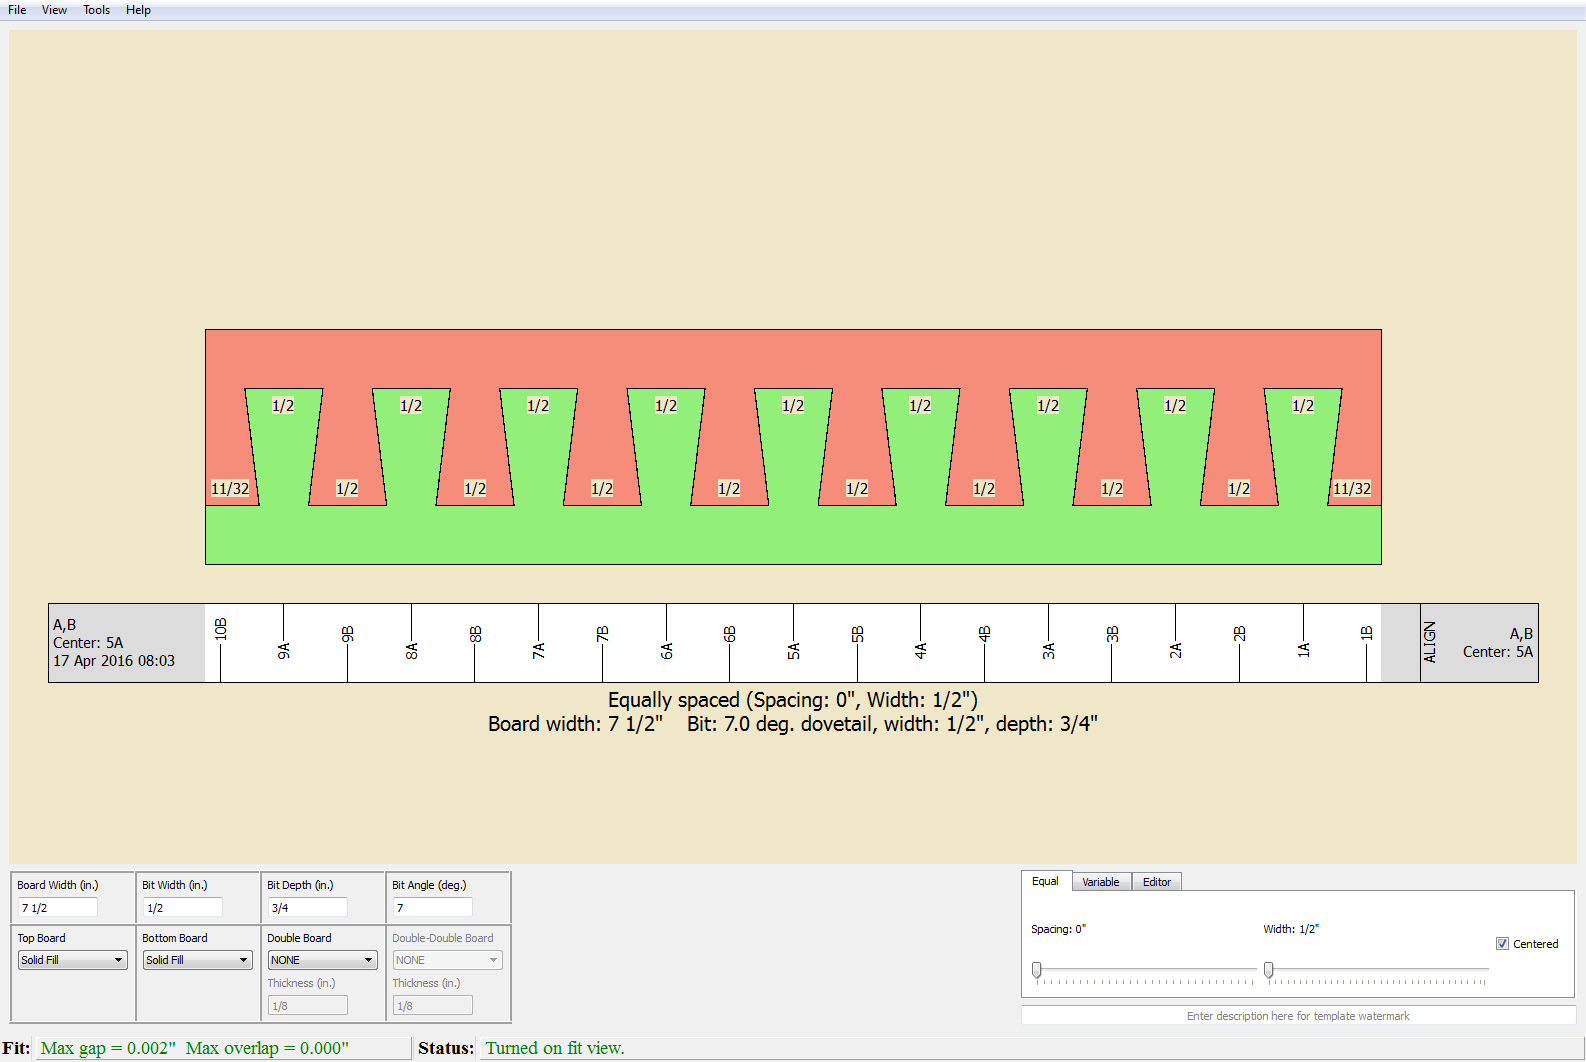
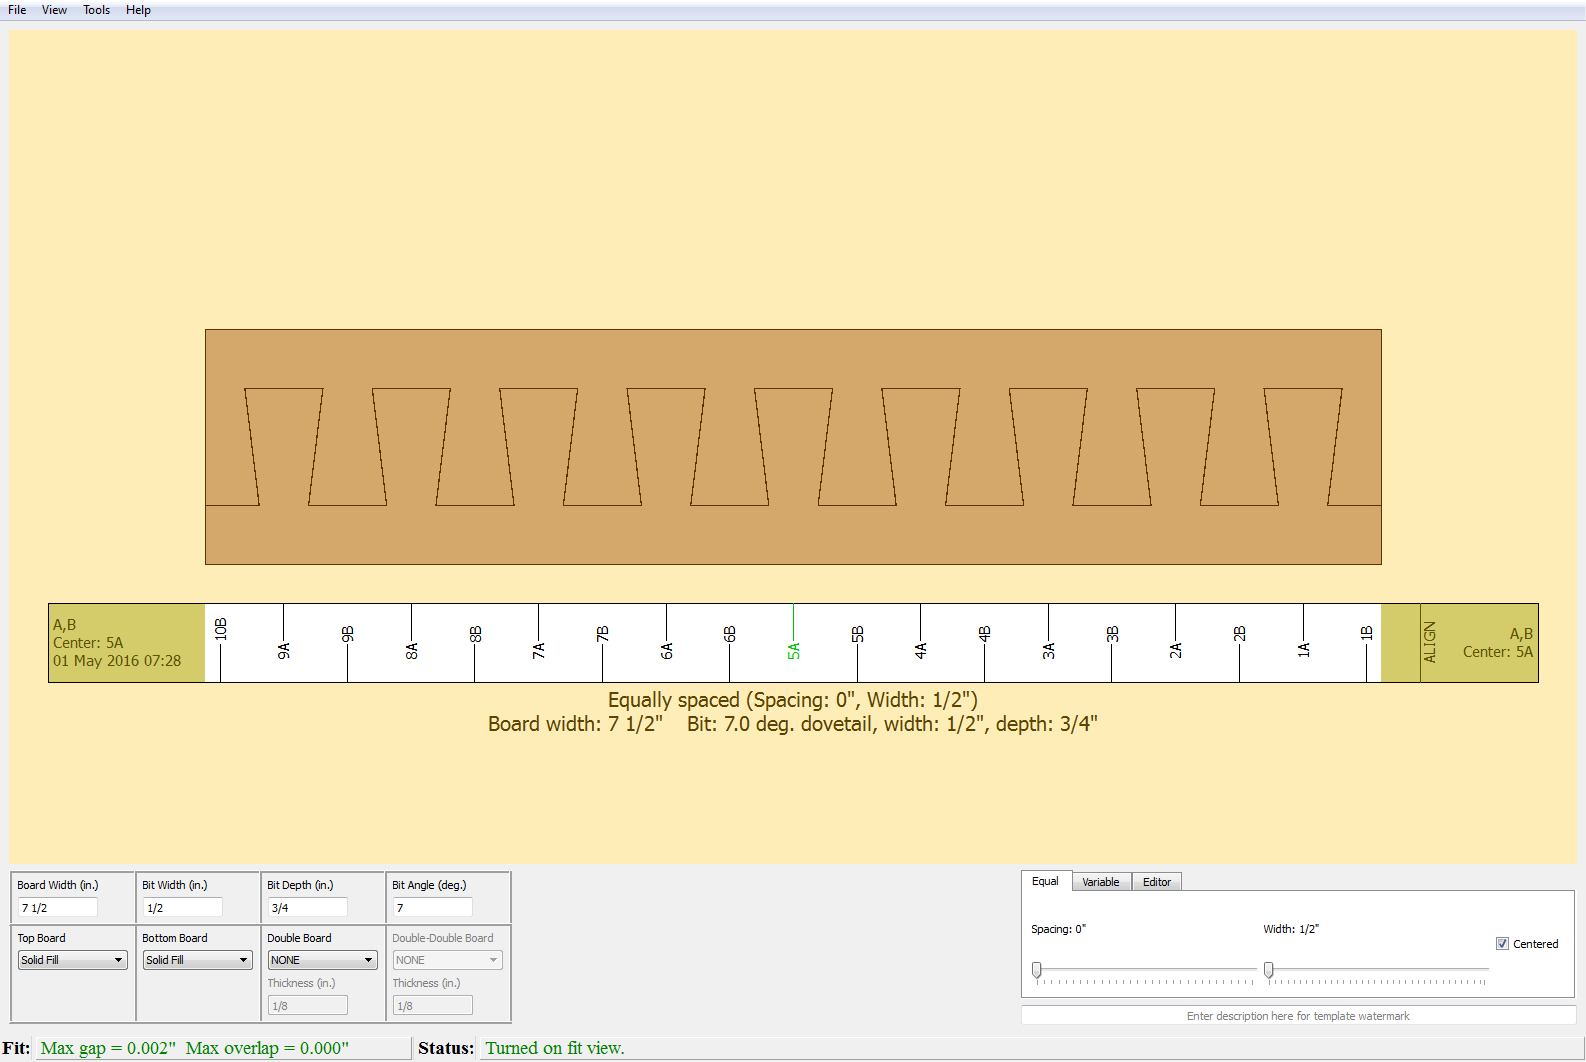
Changes for 0.9.3, final

diff --git a/index.html b/index.html
@@ -19,13 +19,13 @@ dovetail joints.  It has the following features:</p>
   writing {{ site.codename }}.</li>
 <li>Support for both English and metric unit systems.</li>
 <li>May be customized for many finger (box joint) or pin / tail (dovetail)
-  spacing patterns.  Currently, two patterns are included (
+  layouts.  Currently, two patterns are included (
   <a href="{{ site.baseurl }}/finger_spacing_options/#equal_spacing">Equally spaced</a>
   and 
   <a href="{{ site.baseurl }}/finger_spacing_options/#variable_spacing">Variable spaced</a>
   ), along with an 
   <a href="{{ site.baseurl }}/editor/">Editor mode</a> that allows you to create
-  any pattern.</li>
+  any layout.</li>
 <li>{{ site.codename }} is <a href="{{ site.baseurl }}/License">licensed under the
     GPL</a>, so that you're free to use and modify it.</li>
 </ul>

diff --git a/_includes/sidebar_doc.html b/_includes/sidebar_doc.html
@@ -12,7 +12,7 @@
     <nav class="sidebar-nav">
       <a class="sidebar-nav-item" href="{{ site.baseurl }}/overview/">Overview</a>
       <a class="sidebar-nav-item" href="{{ site.baseurl }}/wood_patterns/">Wood Pattern Selection</a>
-      <a class="sidebar-nav-item" href="{{ site.baseurl }}/finger_spacing_options/">Finger Spacing Options</a>
+      <a class="sidebar-nav-item" href="{{ site.baseurl }}/finger_spacing_options/">Finger Layout Options</a>
       <a class="sidebar-nav-item" href="{{ site.baseurl }}/editor/">Editor</a>
       <a class="sidebar-nav-item" href="{{ site.baseurl }}/double_joints/">Double Joints</a>
       <a class="sidebar-nav-item" href="{{ site.baseurl }}/alignment/">Alignment of Router Passes</a>

diff --git a/_includes/sidebar.html b/_includes/sidebar.html
@@ -26,7 +26,8 @@
       <a class="sidebar-nav-item" href="{{ site.baseurl }}/overview/">Documentation</a>
       <a class="sidebar-nav-item" href="{{ site.github.url }}/releases/download/{{ site.version }}/pyRouterJig.exe">Download for Windows</a>
       <a class="sidebar-nav-item" href="{{ site.github.url }}/releases/download/{{ site.version }}/pyRouterJig.app.zip">Download for Mac</a>
-      <a class="sidebar-nav-item" href="{{ site.github.url }}">GitHub project</a>
+      <a class="sidebar-nav-item" href="{{ site.github.url }}/releases/">Release History</a>
+      <a class="sidebar-nav-item" href="{{ site.github.url }}">GitHub Project</a>
     </nav>
 
     <div class="sidebar-closing">

diff --git a/overview.md b/overview.md
@@ -29,7 +29,6 @@ This documentation is focused on using English units, but any important
 differences will be discussed compared with metric units.
 The default joint is a box joint, with the fingers equally spaced, over a
 width of 7 1/2\".  The upper portion of the window draws the current joint.
-Each finger is labeled with its width.
 
 Below the boards is the corresponding template that may be
 cut out and used in an INCRA LS Positioner. See 
@@ -45,7 +44,7 @@ for the joint.  The joint is re-drawn after each change.  In the lower-left grid
 <img class="floater" src="{{ site.baseurl }}/images/lower_left.png" 
      alt="Select units window" width="512">
 you can see two rows of input parameters, which are available for any
-finger-spacing algorithm.  On the top row, we have
+finger-pattern algorithm.  On the top row, we have
 
 * <b>Board Width [inches|mm]:</b> The board width of the joint.
 * <b>Bit Width [inches|mm]:</b>  The maximum cutting width of the router bit.
@@ -62,8 +61,8 @@ either a fraction or decimal.  For example, the following are equivalent:
 `7 1/2` or `7.5` or `7 1 / 2` or `7 1 /2` or `7 1/ 2`
 
 Note that the whitespace around the \"`/`\" is ignored. The board and bit
-widths are rounded to the nearest alignment point.  By default these values
-are rounded to the nearest 1/32\" (or 1 mm for metric).  See section <a href="{{
+widths are rounded to the nearest alignment point.  By default, alignment is
+every 1/32\" (or 1 mm for metric).  See section <a href="{{
 site.baseurl }}/alignment/">Alignment of Router Passes</a> for more
 information about alignment.
 
@@ -88,6 +87,14 @@ opening screenshot</a>, the <b>Bit Angle</b>
 has been changed to 7 degrees.
 </figcaption>
 </figure>
+
+On the bottom right of the window various finger pattern options are
+available.  See the section [Finger Pattern Options]({{ site.baseurl
+}}/finger_spacing_options/) for information about <b>Equal</b> and
+<b>Variable</b>.  The <b>Editor</b> always you to customize the finger
+patterns even further and is described in the section [Editor]({{ site.baseurl
+}}/editor/).  Below the finger pattern options is the template watermark text box,
+which may be used to label the template.
 
 <div id="textbox">
   <p class="alignright">

diff --git a/saving_preferences.md b/saving_preferences.md
@@ -29,6 +29,8 @@ for the main application window, for printing, and for saving images.
   for more information.
   * <b>Show Finger Widths:</b> If checked, each finger is labeled with its width.
   This option may be also set under the menu <b>View : Finger Widths</b>.
+  * <b>Show Fit:</b> If checked, the joint is shown assembled in the view.
+  This option may be also set under the menu <b>View : Fit</b>.
   * <b>Show Router Pass Identifiers:</b> If checked, each router pass is
   labeled with its router pass identifier.
   This option may be also set under the menu <b>View : Router Passes :
@@ -53,10 +55,16 @@ restart, and you will loose any unsaved work that you have done on the current
 joint.  A setting here is <b>Increments per [inch|mm]</b>, which
 is an advanced setting described in the section
 <a href="{{ site.baseurl }}/alignment/">Alignment of Router Passes</a>.
-Do not change this value if you plan to use the templates with the Incra LS Positioner.
+Do not change this value if you plan to use the templates with the Incra LS
+Positioner.
+* <b>Colors:</b> The colors used may be set under this tab.
+  * <b>Print in Color</b>.  If checked, then the same colors are used when
+  printing, except for the Canvas Background, which is always uncolored for
+  printouts. If not checked, the colors are converted to a gray scale before
+  printing.
 * <b>Misc:</b> Two parameters may be set under this tab:
   * <b>Min Finger Width:</b>  This is the minimum allowable finger width.
-  Currently, this value is enforced only for the <b>Equal</b> spacing
+  Currently, this value is enforced only for the <b>Equal</b> layout
   algorithm.
   * <b>Caul Trim:</b>  This value is used to determine the width of each
   clamping caul finger.  It's the distance from the edge of each

diff --git a/finger_spacing_options.md b/finger_spacing_options.md
@@ -1,13 +1,13 @@
 ---
 layout: page_doc
-title: Finger Spacing Options
+title: Finger Layout Options
 ---
 
 Throughout the documentation of {{ site.codename }}, we refer to a \"finger\" not only
 as the traditional finger of a box joint, but also generically to refer to a
-pin or tail of a dovetail joint.  There are currently two automatic finger-spacing
+pin or tail of a dovetail joint.  There are currently two automatic finger-layout
 algorithms, along with an editor to allow specification of arbitrary joints.
-The automatic spacing options are <b>Equal</b> and <b>Variable</b>, located at
+The automatic layout options are <b>Equal</b> and <b>Variable</b>, located at
 tabs in the lower-right portion of the window.  Each option has its own
 controls, described below:
 
@@ -20,10 +20,12 @@ controls, described below:
 
   1. <b>Spacing:</b> This slider allows you to specify additional spacing between
     the A-cuts.  [Figure 4](#figure4) shows an example of increasing this parameter.
+    <img class="floater" src="{{ site.baseurl }}/images/equal_spacing_options.png" 
+     alt="Finger pattern options" width="512">
   2. <b>Width:</b> This slider allows you to specify additional width added
     to the A-cuts.
     [Figure 5](#figure5) shows an example of increasing this parameter.
-  3. <b>Centered:</b> This input is only available for straight bits (bit
+  3. <b>Centered:</b> This input is available only for straight bits (bit
     angle = 0).  If this box is checked, a finger is always centered on
     the board.  Otherwise, a full finger is started on the left edge, which
     will result in a centered finger only if the finger width divides into the

diff --git a/wood_patterns.md b/wood_patterns.md
@@ -8,15 +8,15 @@ On the bottom row of the lower-left grid parameters are <b>Top Board</b>,
 which allow you to select the pattern or wood images used to draw these
 boards, along with parameters for Double and Double-Double joints.  The Double
 and Double-Double joints are explained in the section
-[Double Joints]({{ site.baseurl }}/double_joints/)
+[Double Joints]({{ site.baseurl }}/double_joints/).
 In this section, we cover how to specify
 patterns for any board and how to add image files to simulate
 the appearance of wood grain.
 
 The patterns for Boards may be selected under each respective board header
 (Top, Bottom, Double, and Double-Double).  By default, {{ site.codename }}
-uses simple patterns to draw the board, such as the default `DiagCrossPattern`
-shown in the figures above.  You may also specify any image file (such as a
+uses simple patterns to draw the board, such as the default `Solid Fill`
+shown in the figures above.   You may also specify any image file (such as a
 Portable Network Graphics - PNG) to draw the board.  At startup, 
 {{ site.codename }} looks in the `wood_images` folder in your home directory
 and assumes any file in this folder is an image file.  It then makes these
@@ -49,7 +49,7 @@ the Top and Bottom Boards.
     <a href="{{ site.baseurl }}/overview/">Prev: Overview</a>
   </p>
   <p class="alignright">
-    <a href="{{ site.baseurl }}/finger_spacing_options/">Next: Finger Spacing Options</a>
+    <a href="{{ site.baseurl }}/finger_spacing_options/">Next: Finger Layout Options</a>
   </p>
 </div>
 <div style="clear: both;"></div>

diff --git a/menus.md b/menus.md
@@ -25,7 +25,7 @@ Note that on the Mac, the keyboard shortcuts use the `Command` key rather than `
    in your own `wood_images` folder, then a simple pattern is substituted.
 *  <b>Save (`Ctrl-S`)</b> Saves the joint figure as a `PNG` file.  By
    default, the image files are placed in your home directory, numbered sequentially as
-   `pyrouterjig_0.png`, `pyrouterjig_1.png`, `pyrouterjig_2.png`, and so on.  The
+   `pyrouterjig0.png`, `pyrouterjig1.png`, `pyrouterjig2.png`, and so on.  The
    image size is the same as your current window size, but no smaller than
    `Min Image Width` and no bigger than `Max Image Width`, both of which 
    may be set under <b>Preferences</b>.  By default, both are
@@ -87,9 +87,8 @@ increments, can result in a small amount of overlap in the fit.
      be used to double-check the alignment of each router pass.  This can be
      useful if your printer is not very accurate.
 *  <b>Full Screen Mode (`Ctrl-F`)</b> Toggles full-screen mode.  On the Mac,
-this menu item is called <b>Enter Full Screen</b>, there is no keyboard
-shortcut, and the menu bar is hidden in full screen mode unless the cursor 
-is at the top of the screen (these are Mac menu uniformity issues). 
+the operating system adds an additional menu item called <b>Enter Full Screen</b>,
+which is buggy.  Use <b>Full Screen Mode</b> instead.
 1. <b>Tools:</b>
 *  <b>Screenshot (`Ctrl-W`)</b> Similar to <b>Save</b>, but includes the entire
    {{ site.codename }} application window.  The image size is the same as your

diff --git a/needed_improvements.md b/needed_improvements.md
@@ -18,16 +18,19 @@ upgrade to both Python 3.5 and PyQt5.
   what appears to be the same bug.  Once the folks at Qt fix this issue, I'll
   release a new version.  Note that the actual printout should look fine; it's
   the Preview that looks strange.
+  * On the Mac, an additional "Enter Full Screen" menu item is automatically
+  added, either by the operating system or Qt.  This choice works the same as
+  "Full Screen Mode", but causes a crash if the Preferences window has been
+  opened.  So, avoid using "Enter Full Screen" and use "Full Screen Mode", instead.
 * <b>Features.</b> I\'m working on or considering the following features:
   * In Editor mode, allow for certain changes in parameters, such as board width
   and bit width.  The reason changes are disabled now is that parameter changes
   may create errors that are difficult to recover from.
-  * Specification of color schemes.
   * Export to Sketchup, or a file that it can import.  This is underway, via
   `Export 3DS`, but not all joints are supported yet.
   * Define an option for \"fold-over templates\" that are appropriate for
     laying out hand-cut joints.
-  * More spacing options.
+  * More layout options.
 
 <div id="textbox">
   <p class="alignleft">

diff --git a/dovetails.md b/dovetails.md
@@ -24,9 +24,11 @@ Bottom image shows joint detail.
 </figcaption>
 </figure>
 In order to see the fit better, through the menus, we've also toggled off
-<b>View : Finger Widths</b> and <b>View : Router Passes : Identifiers</b>,
-and toggled on <b>View : Fit</b>.  We also set <b>Top Board</b> and <b>Bottom Board</b>
-to `Solid Fill`.  The red warning banner at the lower left of the window
+<b>View : Router Passes : Identifiers</b>
+and toggled on <b>View : Fit</b>.  For the zoomed images, we also changed the `Alpha Channel` in the
+`Board Background` color preference to a value of 100, which makes the boards
+semi-transparent, so that any overlap is
+easily viewed.  The red warning banner at the lower left of the window
 indicates that the joint's maximum overlap of `0.008"` exceeds the value <b>Warning
 overlap</b>, which defaults to `0"` and 
 may be [set in the Preferences under the <b>Misc</b> tab]({{ site.baseurl }}/saving_preferences/).

diff --git a/double_joints.md b/double_joints.md
@@ -13,9 +13,9 @@ its default of 1/8", similar to parameters such as <b>Board Width</b>.
 <img src="{{ site.baseurl }}/images/double_screen_shot.png">
 </a>
 <figcaption>
-<b>Figure 9.</b>  Example of a Double joint, following the Equal spacing set
-up as in 
-<a data-featherlight="{{ site.baseurl }}/images/opening_screen_shot.png">the opening screenshot</a>.
+<b>Figure 9.</b>  Example of a Double joint, setting the <b>Double Board</b>
+to black walnut in 
+<a data-featherlight="{{ site.baseurl }}/images/woods_screen_shot.png">this example</a>.
 </figcaption>
 </figure>
 
